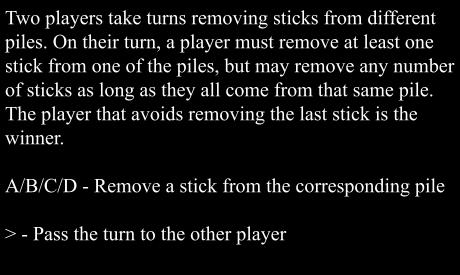
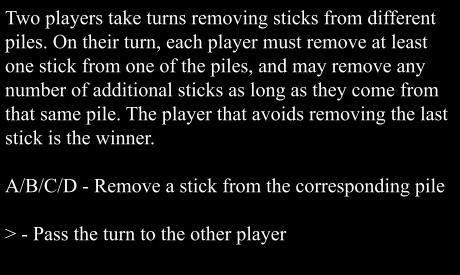
rules text changes

Changed region(s): [[0.0, 0.1164, 1.0, 0.5527]]

diff --git a/README.md b/README.md
@@ -2,7 +2,7 @@
 The game of [Nim](https://en.wikipedia.org/wiki/Nim) coded in Python using the Pygame module.
 
 ## How to Play:
-Two players take turns removing sticks from different piles. On their turn, a player must remove at least one stick from one of the piles, but may remove any number of sticks as long as they all come from that same pile. The player that avoids removing the last stick is the winner.
+Two players take turns removing sticks from different piles. On their turn, each player must remove at least one stick from one of the piles, and may remove any number of additional sticks as long as they come from that same pile. The player that avoids removing the last stick is the winner.
 
 [A/B/C/D] - Remove a stick from the corresponding pile
 
